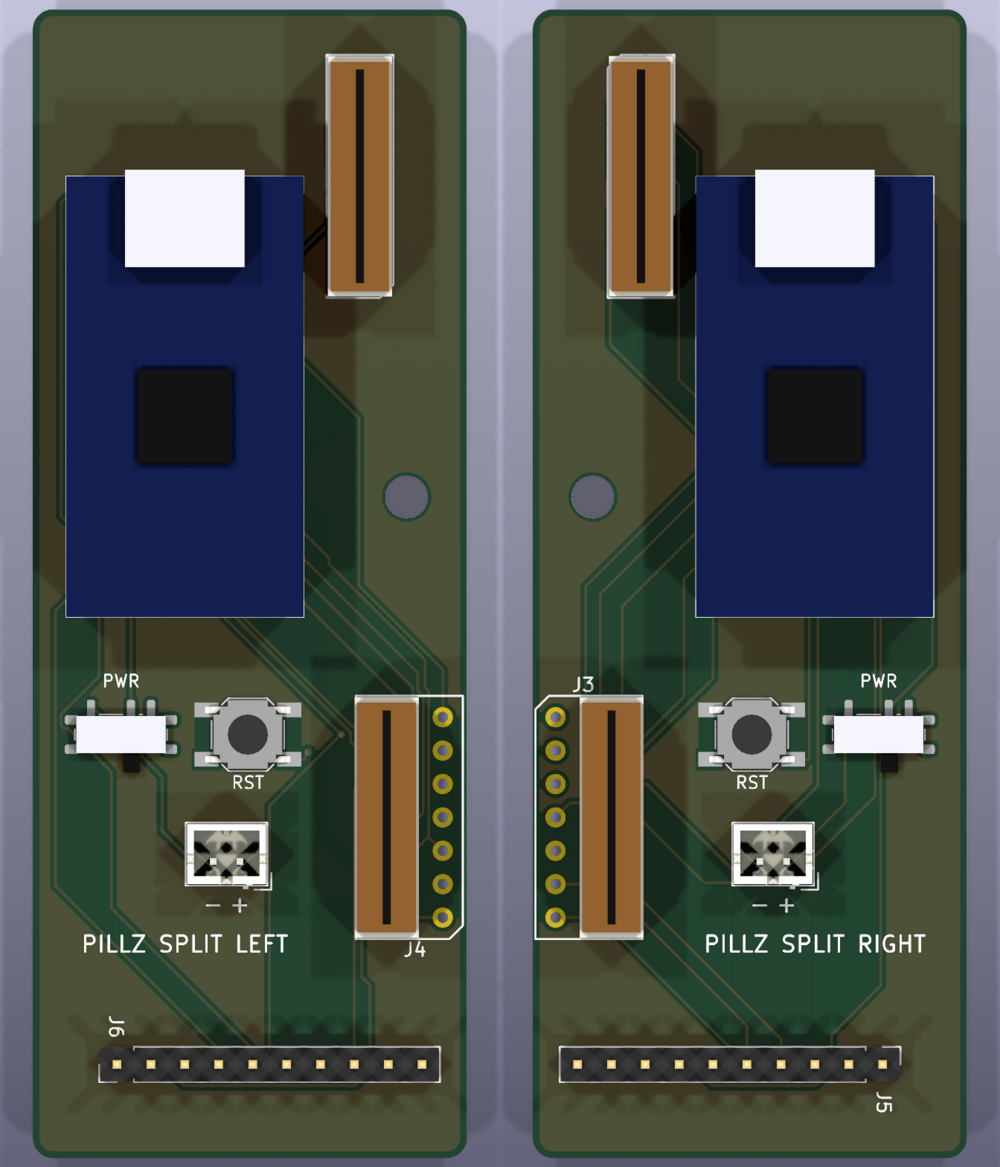
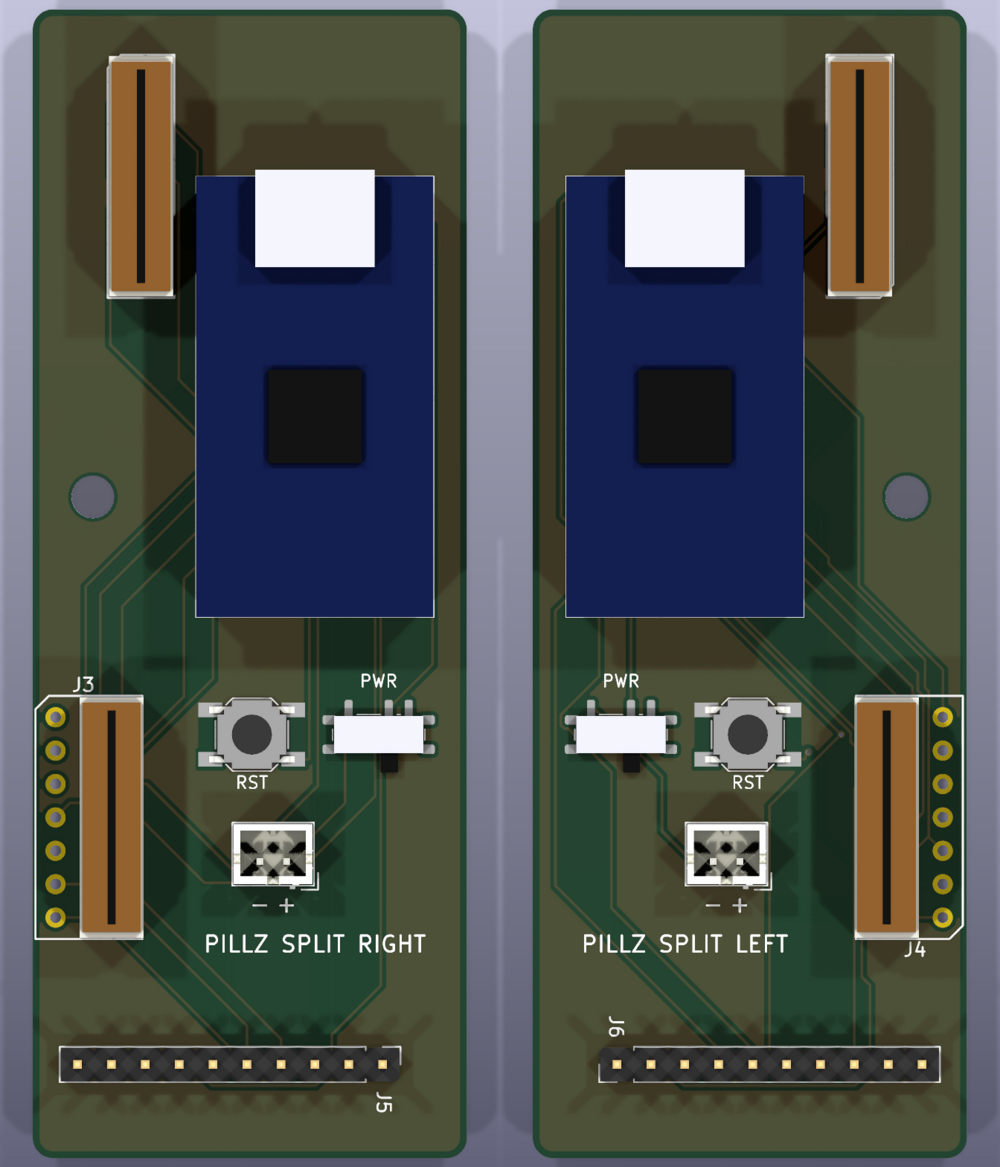
Show split PCB renders as seen from underneath
The renders look at the component side, which faces down in the case, so
put the right half on the left and say so in the READMEs.

diff --git a/pcb-split/README.md b/pcb-split/README.md
@@ -9,11 +9,15 @@ Derived from this repo's `pcb-pro` board ([dcpedit/pillzmod](https://github.com/
 that board, so the key-well flex cables and the Pillz thumb ribbons reach them
 unchanged.
 
-![3D render](render_3d_iso.png)
+The component side (B) faces down into the case, the bare F side faces the
+keys, as with the original board (its status LEDs were the only F-side parts).
+The renders look at the component side, i.e. from underneath, so the right
+half is on the left of the picture and the Molex connectors sit on the outer
+edges, next to the key wells.
 
-Component side (B), left and right half:
+![3D render, from underneath](render_3d_iso.png)
 
-![3D render, component side](render_3d.png)
+![3D render, component side from underneath](render_3d.png)
 
 The Molex connectors, the nice!nano (on 8.5 mm sockets) and the slide switch
 use approximate box models from `models.py`; the rest are stock KiCad models.
@@ -31,7 +35,8 @@ use approximate box models from `models.py`; the rest are stock KiCad models.
 | Mounting | one M3 hole between J2 and J4 | one M3 hole between J1 and J3 |
 
 Boards are 32.5 x 86 mm, with the same top/bottom/outer edges as the original
-board. All parts go on the B side (silkscreen side), as on the upstream board.
+board. All parts go on the B side (silkscreen side, facing down in the case),
+as on the upstream board. `placement.png` and `routed.png` are seen from above.
 The nice!nano is mounted components up (facing away from the PCB).
 
 **Check the battery polarity before plugging it in.** JST-PH cells don't follow

diff --git a/README.MD b/README.MD
@@ -26,6 +26,8 @@ This project replaces my two previous forks ([kinesismod](https://github.com/dcp
 
 <img src="pcb-split/render_3d_iso.png" width="600">
 
+_Seen from underneath (component side): right half on the left._
+
 Two narrow boards in [`pcb-split/`](pcb-split/README.md), one per half, for
 cutting the case in the middle. Each half has its own Nice!Nano, battery
 socket, power switch and reset button, and connects to the same Molex and
